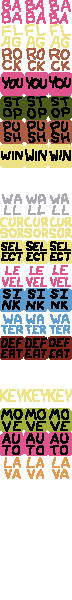
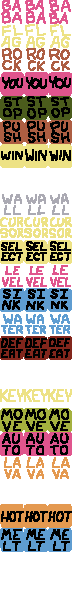
add MELT and HOT properties

Changed region(s): [[0.0, 0.84, 1.0, 0.93]]

diff --git a/src/view.rs b/src/view.rs
@@ -32,8 +32,7 @@ const GRID_COLOR: Color = Color::new(0.1, 0.1, 0.25, 1.);
 const WOBBLE_PERIOD: f64 = 0.20;
 const WOBBLE_FRAMES: usize = 3;
 
-const PARTICLE_SPAWN_MIN_PERIOD: f64 = 0.05;
-const PARTICLE_SPAWN_MAX_PERIOD: f64 = 0.30;
+const PARTICLE_SPAWN_PERIOD: f64 = 0.3;
 
 struct Font {
     texture: Texture2D,
@@ -85,6 +84,8 @@ enum ParticleKind {
     Sparkle,
     Splash,
     Explode,
+    Steam,
+    Melt,
 }
 
 struct Particle {
@@ -122,6 +123,22 @@ impl Particle {
                 birth: now,
                 frames: 4,
                 period: 0.05,
+            },
+            ParticleKind::Steam => Self {
+                tile_size: Vec2::new(16., 16.),
+                tile_offset: Vec2::new(0., 32.),
+                pos: origin,
+                birth: now,
+                frames: 6,
+                period: 0.15,
+            },
+            ParticleKind::Melt => Self {
+                tile_size: Vec2::new(16., 16.),
+                tile_offset: Vec2::new(0., 48.),
+                pos: origin,
+                birth: now,
+                frames: 6,
+                period: 0.04,
             },
         }
     }
@@ -200,7 +217,7 @@ impl Viewer {
             let grid = game.current_level().grid();
             let rules = parse(&lex(grid));
             self.spawn_ambient(grid, &rules, time);
-            self.next_spawn = time + rand::gen_range(PARTICLE_SPAWN_MIN_PERIOD, PARTICLE_SPAWN_MAX_PERIOD);
+            self.next_spawn = time + PARTICLE_SPAWN_PERIOD;
         }
         if !switched {
             for event in events {
@@ -209,6 +226,7 @@ impl Viewer {
                         let kind = match cause {
                             Cause::Defeat => ParticleKind::Explode,
                             Cause::Sink => ParticleKind::Splash,
+                            Cause::Melt => ParticleKind::Melt,
                         };
                         self.burst(kind, *pos, time);
                     }
@@ -288,26 +306,34 @@ impl Viewer {
     }
 
     fn spawn_ambient(&mut self, grid: &Grid, rules: &Rules, time: f64) {
-        let win_cells = grid.cells_with_pos().filter(|(_, cell)| {
-            cell.units()
-                .iter()
-                .any(|unit| rules.unit_has_prop(unit.noun(), Property::Win))
-        });
+        self.spawn_ambient_from_prop(grid, rules, Property::Win, ParticleKind::Sparkle, time);
+        self.spawn_ambient_from_prop(grid, rules, Property::Hot, ParticleKind::Steam, time);
+    }
+
+    fn spawn_ambient_from_prop(&mut self, grid: &Grid, rules: &Rules, prop: Property, kind: ParticleKind, time: f64) {
+        let win_cells = grid
+            .cells_with_pos()
+            .filter(|(_, cell)| cell.units().iter().any(|unit| rules.unit_has_prop(unit.noun(), prop)));
         for (pos, _) in win_cells {
-            self.burst(ParticleKind::Sparkle, pos, time);
+            self.burst(kind, pos, time);
         }
     }
 
     fn burst(&mut self, kind: ParticleKind, pos: Pos, time: f64) {
-        let (count, offset) = match kind {
-            ParticleKind::Sparkle => (1, 0.5),
-            ParticleKind::Splash => (10, 0.5),
-            ParticleKind::Explode => (20, 0.6),
+        let (count, offset, chance) = match kind {
+            ParticleKind::Sparkle => (1, 0.5, 1.0),
+            ParticleKind::Splash => (10, 0.5, 1.0),
+            ParticleKind::Explode => (20, 0.6, 1.0),
+            ParticleKind::Steam => (1, 0.5, 0.05),
+            ParticleKind::Melt => (1, 0., 1.0),
         };
         let centre = Vec2::new(pos.x as f32 + 0.5, pos.y as f32 + 0.5);
         for _ in 0..count {
             let jitter = Vec2::new(rand::gen_range(-offset, offset), rand::gen_range(-offset, offset));
-            self.particles.push(Particle::new(kind, centre + jitter, time));
+            let roll = rand::gen_range(0., 1.);
+            if roll < chance {
+                self.particles.push(Particle::new(kind, centre + jitter, time));
+            }
         }
     }
 

diff --git a/src/eval.rs b/src/eval.rs
@@ -4,8 +4,8 @@ use crate::{
     lex::lex,
     parse::parse,
     query::{
-        UnitRef, any_cell_has, cell_has, query_defeat, query_has, query_is_noun, query_is_property, query_selected,
-        query_sink,
+        UnitRef, any_cell_has, cell_has, query_defeat, query_has, query_is_noun, query_is_property, query_melt,
+        query_selected, query_sink,
     },
     rule::Rules,
     unit::{
@@ -25,6 +25,7 @@ pub enum TurnStatus {
 pub enum Cause {
     Sink,
     Defeat,
+    Melt,
 }
 
 #[derive(Debug, PartialEq)]
@@ -140,6 +141,7 @@ impl<'a> Turn<'a> {
         self.handle_transforms().then(|| self.reparse());
         self.handle_sink().then(|| self.reparse());
         self.handle_defeats().then(|| self.reparse());
+        self.handle_melt().then(|| self.reparse());
         TurnResult {
             status: self.check_status(),
             selected: query_selected(&self.rules, self.grid)
@@ -231,6 +233,11 @@ impl<'a> Turn<'a> {
     fn handle_defeats(&mut self) -> bool {
         let defeated = query_defeat(&self.rules, self.grid);
         self.destroy_and_create(&defeated, Cause::Defeat)
+    }
+
+    fn handle_melt(&mut self) -> bool {
+        let melted = query_melt(&self.rules, self.grid);
+        self.destroy_and_create(&melted, Cause::Melt)
     }
 
     // destroy all units in `doomed` and resolve their HAS rules.

diff --git a/src/unit.rs b/src/unit.rs
@@ -103,6 +103,8 @@ const UNIT_TYPES: &[UnitTypeData] = &[
     word(Text::Property(Property::Auto), "AU", 18),
     word(Text::Noun(Noun::Lava), "LA", 19),
     word(Text::And, "AN", 20),
+    word(Text::Property(Property::Hot), "HO", 21),
+    word(Text::Property(Property::Melt), "ME", 22),
     object(Noun::Baba, "ba", 0, Facing::Directional, UnitGroup::Characters),
     object(Noun::Flag, "fl", 1, Facing::Fixed, UnitGroup::Item),
     object(Noun::Rock, "ro", 2, Facing::Fixed, UnitGroup::Item),
@@ -155,6 +157,8 @@ pub enum Property {
     Defeat,
     Move,
     Auto,
+    Hot,
+    Melt,
 }
 
 #[derive(Clone, Copy, Debug, PartialEq, Eq)]

diff --git a/src/query.rs b/src/query.rs
@@ -99,6 +99,17 @@ pub fn query_defeat(rules: &Rules, grid: &Grid) -> Vec<UnitRef> {
     )
 }
 
+/// query the grid for all `A` that shares a cell with some `B`, where A IS MELT and B IS HOT
+/// all units that should melt this turn
+pub fn query_melt(rules: &Rules, grid: &Grid) -> Vec<UnitRef> {
+    query_cells(
+        rules,
+        grid,
+        |r, c| cell_has(r, c, &[Property::Hot]),
+        |r, u| r.unit_has_prop(u.noun(), Property::Melt),
+    )
+}
+
 /// query the grid for all nouns `A` overlapping `B` where B IS SELECT
 pub fn query_selected(rules: &Rules, grid: &Grid) -> Vec<UnitRef> {
     query_cells(
